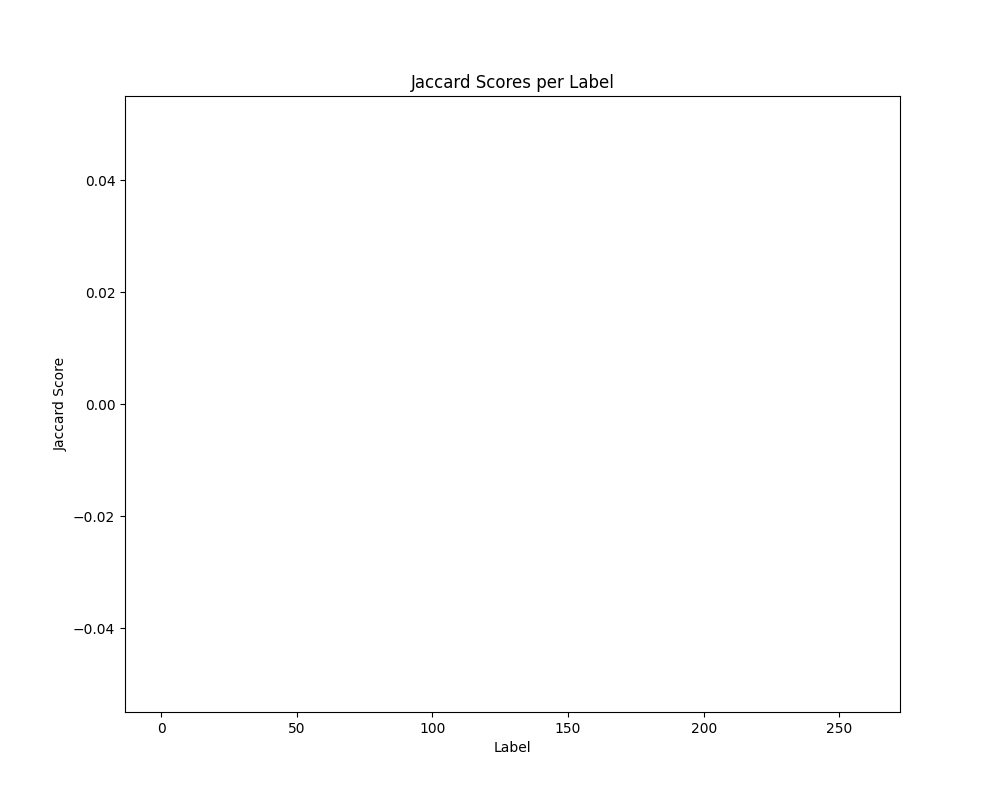
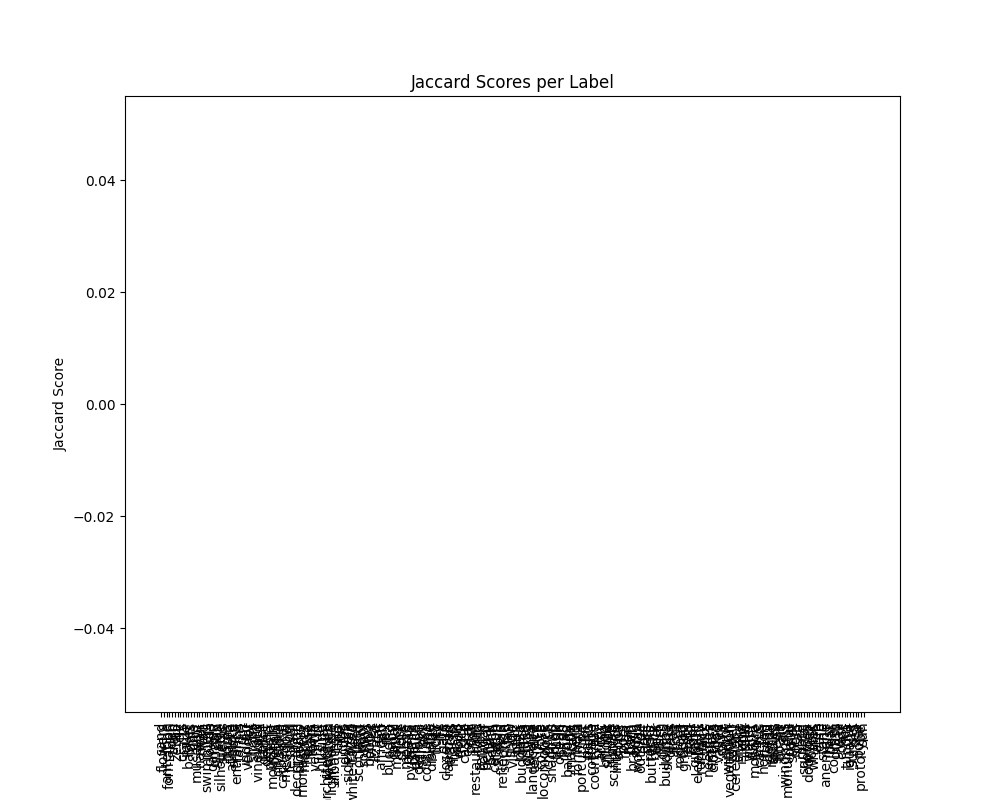
another

Changed region(s): [[0.155, 0.875, 0.868, 1.0]]

diff --git a/scripts/main.py b/scripts/main.py
@@ -13,25 +13,21 @@ import zipfile
 import time
 import matplotlib.pyplot as plt
 import seaborn as sns
-from sklearn.metrics import jaccard_score, confusion_matrix
+from sklearn.metrics import jaccard_score, confusion_matrix, accuracy_score
+from ray import tune
+
+# Try importing the newer callback; fallback to the older one if there's an import issue
+try:
+    from ray.train.tensorflow.keras import ReportCheckpointCallback
+except ImportError:
+    logging.warning("Falling back to TuneReportCallback due to import error with ReportCheckpointCallback.")
+    from ray.tune.integration.keras import TuneReportCallback
 
 # Configuration
 DATA_DIR = 'data/raw/Corel-5k/Corel-5k/'
 PROCESSED_DIR = 'data/processed/'
 OUTPUTS_DIR = 'outputs/'
 FIGURES_DIR = 'figures/'
-
-# Hyperparameters
-hyperparams = {
-    'batch_size': 32,
-    'epochs': 50,
-    'learning_rate': 0.001,
-    'dropout_rate': 0.5,
-    'num_filters': [32, 64, 128],
-    'kernel_size': 3,
-    'pool_size': 2,
-    'dense_units': 128
-}
 
 # Set up logging
 logging.basicConfig(level=logging.INFO, format='%(asctime)s - %(levelname)s - %(message)s')
@@ -170,53 +166,44 @@ def save_preprocessed_data(data, processed_dir):
         logging.error(f"An error occurred while saving preprocessed data: {e}")
         raise
 
-def build_model(input_shape, num_classes, hyperparams, strategy):
-    """Builds and compiles the CNN model within the strategy scope."""
-    with strategy.scope():
-        model = Sequential()
-        model.add(InputLayer(input_shape=input_shape))
+def build_model(config):
+    """Builds and compiles the CNN model."""
+    model = Sequential()
+    model.add(InputLayer(input_shape=(224, 224, 3)))
 
-        for num_filter in hyperparams['num_filters']:
-            model.add(Conv2D(num_filter, (hyperparams['kernel_size'], hyperparams['kernel_size']), activation='relu'))
-            model.add(MaxPooling2D(pool_size=(hyperparams['pool_size'], hyperparams['pool_size'])))
-            model.add(Dropout(hyperparams['dropout_rate']))
-        
-        model.add(Flatten())
-        model.add(Dense(hyperparams['dense_units'], activation='relu'))
-        model.add(Dropout(hyperparams['dropout_rate']))
-        model.add(Dense(num_classes, activation='sigmoid'))
+    for num_filter in config['num_filters']:
+        model.add(Conv2D(num_filter, (config['kernel_size'], config['kernel_size']), activation='relu'))
+        model.add(MaxPooling2D(pool_size=(config['pool_size'], config['pool_size'])))
+        model.add(Dropout(config['dropout_rate']))
 
-        model.compile(optimizer=tf.keras.optimizers.Adam(learning_rate=hyperparams['learning_rate']),
-                      loss='binary_crossentropy',
-                      metrics=['accuracy'])
+    model.add(Flatten())
+    model.add(Dense(config['dense_units'], activation='relu'))
+    model.add(Dropout(config['dropout_rate']))
+    model.add(Dense(260, activation='sigmoid'))
 
-        logging.info("Model built and compiled successfully.")
-        return model
+    model.compile(optimizer=tf.keras.optimizers.Adam(learning_rate=config['learning_rate']),
+                  loss='binary_crossentropy',
+                  metrics=['accuracy'])
 
-def train_model(model, train_data, val_data, hyperparams, strategy):
-    """Trains the model and returns the training history."""
-    try:
-        callbacks = [
-            EarlyStopping(monitor='val_loss', patience=3, restore_best_weights=True),
-            ModelCheckpoint(filepath=os.path.join(OUTPUTS_DIR, 'best_model.h5'), save_best_only=True)
+    return model
+
+def train_model(config, data):
+    """Trains the model with the given configuration and data."""
+    model = build_model(config)
+    start_time = time.time()
+    history = model.fit(
+        data['train']['images'], data['train']['labels'],
+        validation_data=(data['val']['images'], data['val']['labels']),
+        epochs=config['epochs'],
+        batch_size=config['batch_size'],
+        callbacks=[
+            TuneReportCallback(metrics={'val_loss': 'val_loss', 'val_accuracy': 'val_accuracy'}),
+            EarlyStopping(monitor='val_loss', patience=3, restore_best_weights=True)
         ]
-
-        with strategy.scope():
-            start_time = time.time()
-            history = model.fit(
-                train_data['images'], train_data['labels'],
-                validation_data=(val_data['images'], val_data['labels']),
-                epochs=hyperparams['epochs'],
-                batch_size=hyperparams['batch_size'],
-                callbacks=callbacks
-            )
-            end_time = time.time()
-
-        return history, end_time - start_time
-
-    except Exception as e:
-        logging.error(f"An error occurred while training the model: {e}")
-        raise
+    )
+    end_time = time.time()
+    training_time = end_time - start_time
+    return history, training_time
 
 def evaluate_model(model, test_data):
     """Evaluates the model and returns performance metrics."""
@@ -224,13 +211,15 @@ def evaluate_model(model, test_data):
         predictions = model.predict(test_data['images'])
         binary_predictions = (predictions > 0.5).astype(int)
         jaccard_scores = jaccard_score(test_data['labels'], binary_predictions, average=None)
+        overall_jaccard = jaccard_score(test_data['labels'], binary_predictions, average='micro')
         cm = confusion_matrix(test_data['labels'].argmax(axis=1), binary_predictions.argmax(axis=1))
-        
+
         performance = {
             'jaccard_scores': jaccard_scores,
+            'overall_jaccard': overall_jaccard,
             'confusion_matrix': cm
         }
-        
+
         return performance
 
     except Exception as e:
@@ -238,7 +227,7 @@ def evaluate_model(model, test_data):
         raise
 
 def plot_confusion_matrix(cm, classes, filename):
-    plt.figure(figsize=(10, 8))
+    plt.figure(figsize=(20, 20))
     sns.heatmap(cm, annot=True, fmt="d", cmap="Blues", xticklabels=classes, yticklabels=classes)
     plt.xlabel('Predicted')
     plt.ylabel('True')
@@ -246,12 +235,13 @@ def plot_confusion_matrix(cm, classes, filename):
     plt.savefig(filename)
     plt.close()
 
-def plot_jaccard_score(jaccard_scores, filename):
+def plot_jaccard_score(jaccard_scores, classes, filename):
     plt.figure(figsize=(10, 8))
-    plt.bar(range(len(jaccard_scores)), jaccard_scores)
+    plt.bar(classes, jaccard_scores)
     plt.xlabel('Label')
     plt.ylabel('Jaccard Score')
     plt.title('Jaccard Scores per Label')
+    plt.xticks(rotation=90)
     plt.savefig(filename)
     plt.close()
 
@@ -268,7 +258,7 @@ def plot_loss_vs_epochs(history, filename):
 
 def main():
     try:
-        extract_zip('data/Corel-5k.zip', 'data/raw/Corel-5k/')
+        extract_zip('/root/.ipython/multilabel_cnn_proj/data/raw/Corel-5k.zip', 'data/raw/Corel-5k/')
         
         logging.info("Loading data...")
         data = load_data()
@@ -280,13 +270,38 @@ def main():
         save_preprocessed_data(processed_data, PROCESSED_DIR)
 
         logging.info("Building the model...")
-        input_shape = processed_data['train']['images'][0].shape
-        num_classes = len(processed_data['classes'])
         strategy = tf.distribute.MirroredStrategy()
-        model = build_model(input_shape, num_classes, hyperparams, strategy)
 
-        logging.info("Training the model...")
-        history, training_time = train_model(model, processed_data['train'], processed_data['val'], hyperparams, strategy)
+        # Define the hyperparameter search space
+        search_space = {
+            'batch_size': tune.choice([16, 32, 64]),
+            'epochs': 50,
+            'learning_rate': tune.loguniform(1e-4, 1e-2),
+            'dropout_rate': tune.uniform(0.3, 0.7),
+            'num_filters': tune.choice([[32, 64, 128], [64, 128, 256], [128, 256, 512]]),
+            'kernel_size': 3,
+            'pool_size': 2,
+            'dense_units': tune.choice([64, 128, 256])
+        }
+
+        # Run the hyperparameter search
+        analysis = tune.run(
+            tune.with_parameters(train_model, data=processed_data),
+            resources_per_trial={'cpu': 2, 'gpu': 1},
+            metric='val_loss',
+            mode='min',
+            config=search_space,
+            num_samples=10,
+            name='tune_cnn'
+        )
+
+        # Get the best hyperparameters
+        best_config = analysis.best_config
+        logging.info(f"Best hyperparameters: {best_config}")
+
+        # Train the final model with the best hyperparameters
+        model = build_model(best_config)
+        history, training_time = train_model(best_config, processed_data)
 
         logging.info("Data preprocessing and model training pipeline completed successfully.")
 
@@ -300,10 +315,12 @@ def main():
         plot_confusion_matrix(performance['confusion_matrix'], classes=processed_data['classes'], filename=os.path.join(FIGURES_DIR, 'confusion_matrix.png'))
 
         logging.info("Plotting Jaccard scores...")
-        plot_jaccard_score(performance['jaccard_scores'], filename=os.path.join(FIGURES_DIR, 'jaccard_scores.png'))
+        plot_jaccard_score(performance['jaccard_scores'], classes=processed_data['classes'], filename=os.path.join(FIGURES_DIR, 'jaccard_scores.png'))
 
         logging.info("Plotting loss vs. epochs...")
         plot_loss_vs_epochs(history, filename=os.path.join(FIGURES_DIR, 'loss_vs_epochs.png'))
+
+        logging.info(f"Overall Jaccard score: {performance['overall_jaccard']:.4f}")
 
         logging.info("Training time with parallel strategy: %s seconds", training_time)
 

diff --git a/tests/test_preprocessing.py b/tests/test_preprocessing.py
@@ -12,7 +12,7 @@ import logging
 import zipfile
 
 # Configuration
-DATA_DIR = '/root/.ipython/multilabel_cnn_proj/data/raw/Corel-5k/Corel-5k/Corel-5k/'
+DATA_DIR = '/root/.ipython/multilabel_cnn_proj/data/raw/Corel-5k/Corel-5k/'
 PROCESSED_DIR = '/root/.ipython/multilabel_cnn_proj/data/processed/'
 OUTPUTS_DIR = '/root/.ipython/multilabel_cnn_proj/outputs/'
 
@@ -33,6 +33,8 @@ logging.basicConfig(level=logging.INFO, format='%(asctime)s - %(levelname)s - %(
 
 def extract_zip(file_path, extract_to):
     try:
+        if not os.path.exists(file_path):
+            raise FileNotFoundError(f"{file_path} does not exist")
         with zipfile.ZipFile(file_path, 'r') as zip_ref:
             zip_ref.extractall(extract_to)
         logging.info(f"Extracted {file_path} to {extract_to}.")
@@ -229,7 +231,16 @@ def train_model(model, train_data, val_data, hyperparams):
 
 if __name__ == "__main__":
     try:
-        extract_zip('/root/.ipython/multilabel_cnn_proj/data/Corel-5k.zip', '/root/.ipython/multilabel_cnn_proj/data/raw/Corel-5k/')
+        # Correct path to the zip file
+        zip_file_path = '/root/.ipython/multilabel_cnn_proj/data/raw/Corel-5k.zip'
+        extract_to_path = '/root/.ipython/multilabel_cnn_proj/data/raw/Corel-5k/'
+
+        # Remove existing raw data directory if it exists
+        if os.path.exists(extract_to_path):
+            logging.info("Removing existing raw data directory...")
+            os.system(f'rm -rf {extract_to_path}')
+
+        extract_zip(zip_file_path, extract_to_path)
         
         logging.info("Loading data...")
         data = load_data()
